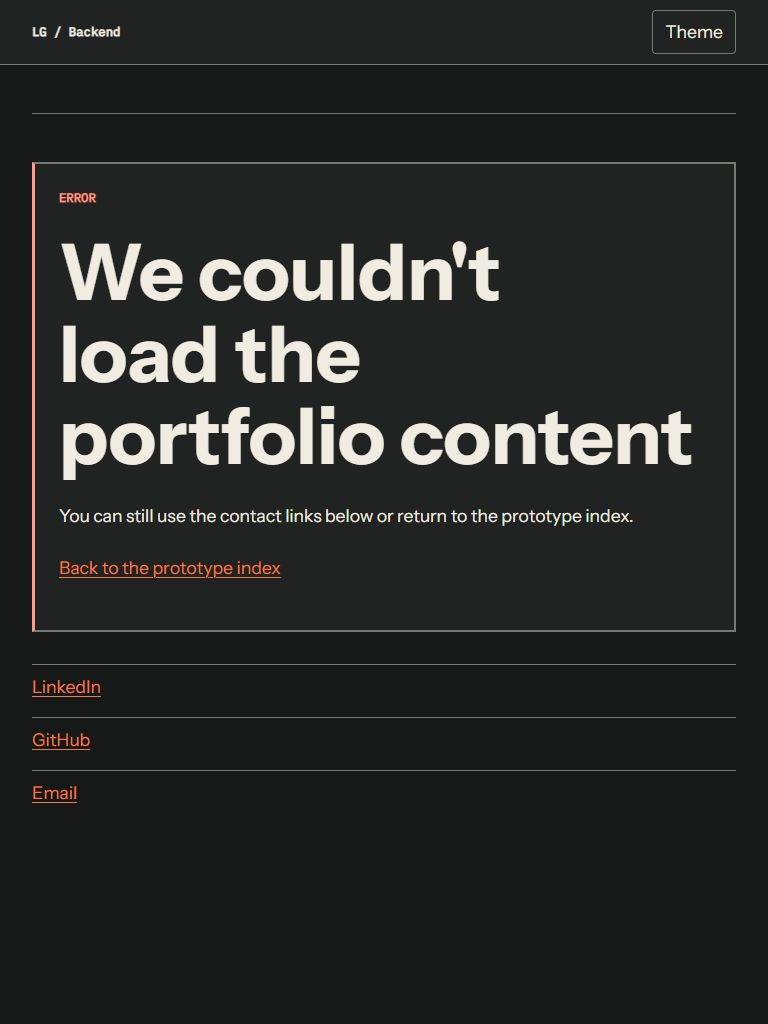
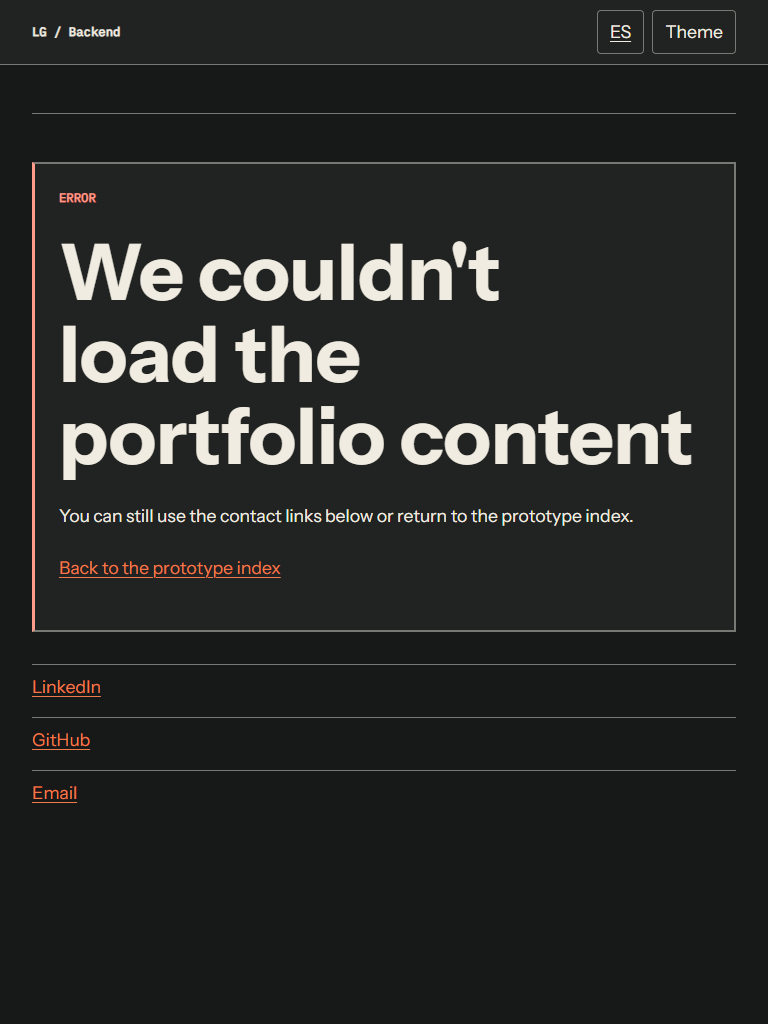
fix: address phase 2 QA review findings

diff --git a/docs/prototypes/phase-2/styles/header.css b/docs/prototypes/phase-2/styles/header.css
@@ -14,6 +14,8 @@
 .site-header__utility, .site-header__menu-button, .mobile-menu__close { border: var(--rule-standard) solid var(--color-border-meaningful); border-radius: var(--radius-small); background: var(--color-surface-raised); color: var(--color-text-primary); padding-inline: var(--space-3); }
 [data-desktop-nav], .site-header__language { display: none; }
 .site-header__menu-button { display: inline-flex; }
+[data-theme-toggle], [data-menu-open] { display: none; }
+html.js [data-theme-toggle], html.js [data-menu-open] { display: inline-flex; }
 .no-js-nav { display: flex; flex-wrap: wrap; gap: var(--space-2); padding-block: var(--space-4); }
 .no-js-nav a { display: inline-flex; align-items: center; min-height: var(--target-minimum); padding-inline: var(--space-2); }
 
@@ -33,6 +35,10 @@ html.menu-open { overflow: hidden; }
 .mobile-menu__availability { margin: 0; color: var(--color-muted); font-size: var(--font-size-utility); }
 .mobile-menu__language { justify-self: start; }
 
+@media (max-width: 63.99rem) {
+  .state-page--site-error .site-error__language { display: inline-flex; }
+}
+
 @media (min-width: 64rem) {
   [data-site-header] { box-shadow: var(--shadow-sticky-header); }
   .site-header__inner { gap: var(--space-5); }
@@ -43,4 +49,5 @@ html.menu-open { overflow: hidden; }
   [data-desktop-nav] a[aria-current="location"]::before { color: var(--color-accent); }
   .site-header__language { display: inline-flex; }
   .site-header__menu-button { display: none; }
+  html.js .site-header__menu-button { display: none; }
 }

diff --git a/docs/prototypes/phase-2/states/site-error.html b/docs/prototypes/phase-2/states/site-error.html
@@ -19,13 +19,13 @@
     <link rel="stylesheet" href="../styles/states.css">
     <script type="module" src="../scripts/main.js"></script>
   </head>
-  <body class="state-page">
+  <body class="state-page state-page--site-error">
     <a class="skip-link" href="#main-content">Skip to main content</a>
     <header data-site-header>
       <div class="site-header__inner container">
         <a class="site-header__identity" href="../index.html">LG / Backend</a>
         <div class="site-header__utilities">
-          <a class="site-header__utility site-header__language" href="../es/" lang="es">ES</a>
+          <a class="site-header__utility site-header__language site-error__language" href="../es/" lang="es">ES</a>
           <button class="theme-toggle site-header__utility" type="button" data-theme-toggle data-label-light="Switch to light theme" data-label-dark="Switch to dark theme">Theme</button>
         </div>
       </div>

diff --git a/docs/prototypes/phase-2/styles/tokens.css b/docs/prototypes/phase-2/styles/tokens.css
@@ -87,3 +87,18 @@
   --color-error: #FF9B8A;
   --shadow-sticky-header: 0 8px 24px rgb(0 0 0 / 24%);
 }
+
+@media (prefers-color-scheme: dark) {
+  :root:not([data-theme]) {
+    --color-canvas: #171918;
+    --color-surface: #202321;
+    --color-text: #F1ECE1;
+    --color-muted: #B8B3A9;
+    --color-accent: #F07A4B;
+    --color-border: #777A74;
+    --color-disabled: #96958F;
+    --color-selected: #2B2926;
+    --color-error: #FF9B8A;
+    --shadow-sticky-header: 0 8px 24px rgb(0 0 0 / 24%);
+  }
+}

diff --git a/docs/prototypes/phase-2/scripts/main.js b/docs/prototypes/phase-2/scripts/main.js
@@ -3,6 +3,7 @@ import { initMenu } from './menu.js';
 import { initNavigation } from './navigation.js';
 import { initWorkTabs } from './work-tabs.js';
 
+document.documentElement.classList.add('js');
 initTheme();
 initMenu();
 initNavigation();

diff --git a/docs/design/phase-2/VALIDATION_REPORT.md b/docs/design/phase-2/VALIDATION_REPORT.md
@@ -13,7 +13,7 @@
 | Bilingual high-fidelity prototype | `docs/prototypes/phase-2/es/index.html`, `en/index.html`, local CSS and progressive-enhancement scripts |
 | States | loading, section error, site error, missing-CV, and explicitly structural populated-project fixture under `docs/prototypes/phase-2/states/` |
 | Asset provenance | `docs/prototypes/phase-2/assets/ASSET_MANIFEST.md` |
-| Visual evidence | 10 required baseline PNGs plus menu, Work, zero-project, and state screenshots under `docs/prototypes/phase-2/evidence/` |
+| Visual evidence | 10 required baseline PNGs plus corrected focused, no-JS, and state screenshots under `docs/prototypes/phase-2/evidence/` |
 
 ## Automated verification
 
@@ -80,7 +80,7 @@ mobile-390-es-light.png     mobile-390-en-dark.png
 mobile-360-es-light.png     mobile-360-en-dark.png
 ```
 
-Additional focused evidence: `mobile-menu-es-light.png`, `work-tabs-en-light.png`, `zero-project-es-light.png`, and `state-*-dark.png`.
+Additional focused evidence: `mobile-menu-es-light.png`, `work-tabs-en-light.png`, and `zero-project-es-light.png` were recaptured with an actual light document theme. `state-site-error-mobile-light.png`, `state-site-error-mobile-dark.png`, `state-site-error-tablet-light.png`, and `state-site-error-dark.png` prove the corrected broad-failure shell. `no-js-390-es-light.png` and `no-js-390-en-dark.png` prove the genuine disabled-JavaScript fallback.
 
 ## Interaction and accessibility checks
 
@@ -94,14 +94,16 @@ Additional focused evidence: `mobile-menu-es-light.png`, `work-tabs-en-light.png
 | Active and focus treatment | PASS | Browser visual evidence shows 3px orange outline plus geometry; active desktop navigation uses index, accent rule, and weight rather than color only. |
 | Contact and external links | PASS | Validator checks exact LinkedIn, GitHub, `mailto:`, safe `rel`, English CV action, and Spanish CV omission. |
 | States and confidentiality | PASS | Each state has no overflow in light and dark; loading has `aria-busy`/status/static skeletons; errors are plain-language alerts; the fixture is structural, labeled, and URL-free. |
+| Broad site-error shell below 64rem | PASS | At 390 x 844 and 768 x 1024 in light/dark, both visible controls have 44px minimum heights: language was 46–47px wide and Theme 82–84px wide; the Theme click changed the mobile document state to dark with `aria-pressed="true"`. |
+| Genuine disabled-JavaScript fallback | PASS | Regular Playwright contexts with `javaScriptEnabled: false` checked ES/light and EN/dark at 390px: system canvas colors applied, `data-theme` and `.js` were absent, Menu/Theme controls were hidden, localized `noscript` navigation was visible, all dossiers remained visible, and no horizontal overflow occurred. |
 | Static/reduced-motion policy | PASS | Search found no active transition or animation. Skeletons declare `animation: none; transition: none`; the reduced-motion rule additionally clamps nonessential timing. `navigation.js` uses one one-shot `window.setTimeout` only to schedule fragment-heading focus after navigation; it is not a continuous timer or Phase 6 motion. No Phase 6 runtime, canvas, WebGL, GSAP, or Motion exists. |
 
 ### Browser-control limitations recorded honestly
 
-The in-app Browser exposes viewport overrides but no JavaScript-disable, forced-colors emulation, or page-zoom capability.
+The original in-app Browser session supported the base matrix, then became unavailable during review follow-up (`agent.browsers.list()` returned `[]`). The permitted frontend-testing fallback used the locally available Playwright package and installed Chromium 1217 after the in-app Browser path was exhausted. Its only non-app console noise was the static server's absent `/favicon.ico`; no prototype resource or runtime error was observed.
 
 - **200% browser zoom: NOT RUN as an exact browser-zoom check.** Both attempted `Ctrl++` spellings left `visualViewport.scale` at `1`. An equivalent 512px CSS-viewport reflow check passed for both locales, but it is not recorded as a 200% browser-zoom PASS.
-- **JavaScript-disabled visual run: NOT RUN in-browser.** A source-level check passed: both localized HTML files contain the complete sections and all four Work dossiers in source order plus `noscript` navigation; Work hiding is only enhancement code. This is not labeled as a browser-disabled-JS PASS.
+- **JavaScript-disabled visual run: PASS with fallback Playwright.** The disabled-JavaScript contexts described above exercised the actual local pages, not a source-only substitute.
 - **Forced-colors visual run: NOT RUN in-browser.** The capability is unavailable. Source review confirms the Hero has a forced-colors fallback and all semantics/outline focus remain present; this is not labeled as emulated forced-colors PASS.
 - **Complete native-dialog Tab/Shift+Tab/Escape traversal: NOT RUN end-to-end.** The browser bridge did not surface native dialog default actions for those key probes, although button, destination, and Work keyboard commands work. Source review confirms native `<dialog>`, `cancel`, scroll-lock, and restoration logic. A human assistive-technology/browser pass remains appropriate before release.
 
@@ -114,10 +116,13 @@ The wide and portrait derivatives preserve Luciano's face, hair, shoulders, natu
 | Finding | Viewport/locale/theme | Owning file | Correction | Retest |
 | --- | --- | --- | --- | --- |
 | Four state pages had no safe theme bootstrap, so a stored/system dark preference could not reach them. | State pages, both themes | `states/loading.html`, `section-error.html`, `missing-cv.html`, `projects-populated.html`; site-error bootstrap was also inconsistent | Added the same validated `light`/`dark` bootstrap used by the localized pages and extended the artifact contract for every state page. | Artifact, contrast, asset validators passed; all five state pages passed in light and dark at 768 x 1024. |
+| The broad site-error shell hid its only language control below `64rem`. | 390 x 844 and 768 x 1024, light/dark | `states/site-error.html`, `styles/header.css` | Added a state-specific language-control hook and a below-`64rem` visibility rule; Theme remains visible without relying on a mobile menu. | Four rendered Playwright combinations passed, including 44px targets, no overflow, safe links, and a mobile Theme interaction. |
+| Focused screenshot filenames said `light` while their pixels showed dark theme. | Focused evidence | `docs/prototypes/phase-2/evidence/` | Recaptured `zero-project-es-light.png`, `mobile-menu-es-light.png`, and `work-tabs-en-light.png` in a fresh light Playwright context, asserting `data-theme="light"` before capture. | Visual inspection and runtime checks confirm light canvas and the expected focused state. |
+| No-JS behavior relied on JavaScript to choose a theme and displayed unusable JS-only controls. | 390px, ES/light and EN/dark | `styles/tokens.css`, `styles/header.css`, `scripts/main.js`, locale HTML behavior, `README.md` | Added a CSS `prefers-color-scheme` fallback when no `data-theme` exists; gates Theme/Menu behind `html.js`; preserves `noscript` navigation. | Validator contract plus genuine `javaScriptEnabled: false` Playwright checks passed in both system themes. |
 
 ## Remaining non-blocking considerations
 
-- Perform exact 200% zoom, JavaScript-disabled, forced-colors, and full native-dialog keyboard traversal manually in a browser that exposes those controls before a production release.
+- Perform exact 200% zoom, forced-colors, and full native-dialog keyboard traversal manually in a browser that exposes those controls before a production release.
 - The Spanish CV metadata/reapproval issue remains unresolved; the Spanish action remains omitted. The combined multi-institution wording remains intentionally unapproved and absent.
 - Phase 6 motion was **not implemented**. This Phase 2 prototype is static and dependency-free.
 - The final whole-branch GPT-5.6 Sol review is intentionally deferred to the controller; this implementer did not perform or claim that review.

diff --git a/docs/prototypes/phase-2/README.md b/docs/prototypes/phase-2/README.md
@@ -10,7 +10,7 @@ Serve the repository root with:
 
 Open `http://127.0.0.1:4173/docs/prototypes/phase-2/`, `http://127.0.0.1:4173/docs/prototypes/phase-2/es/`, or `http://127.0.0.1:4173/docs/prototypes/phase-2/en/`. Future state URLs are listed in the index as their later tasks add them.
 
-The theme button works with keyboard Enter/Space and persists only explicit `light` or `dark` choices in `localStorage` under `portfolio-prototype-theme`. Without JavaScript, the content remains readable and the initial system theme is used by the browser.
+The theme button works with keyboard Enter/Space and persists only explicit `light` or `dark` choices in `localStorage` under `portfolio-prototype-theme`. Without JavaScript, CSS applies the system light/dark preference, the JavaScript-dependent theme and Menu buttons stay hidden, and the visible `noscript` navigation preserves every localized destination. Language links and all content remain ordinary HTML links/content.
 
 Do not treat approved copy, portrait derivatives, contact destinations, or CV links here as a publication action. This prototype contains no production application code and no external runtime assets.
 
